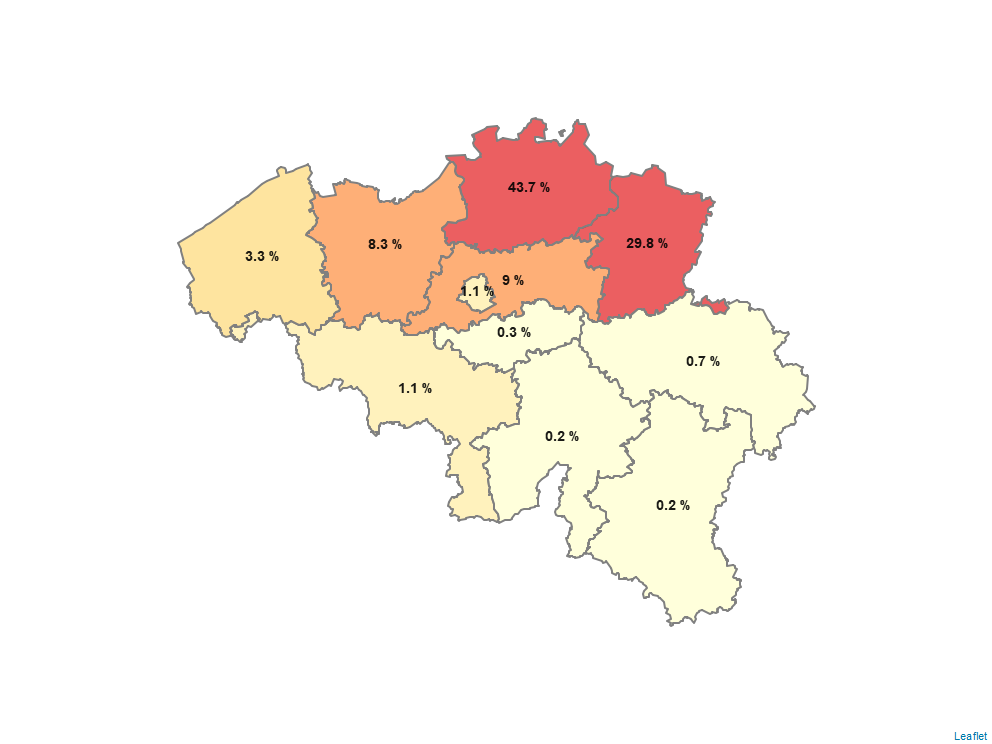
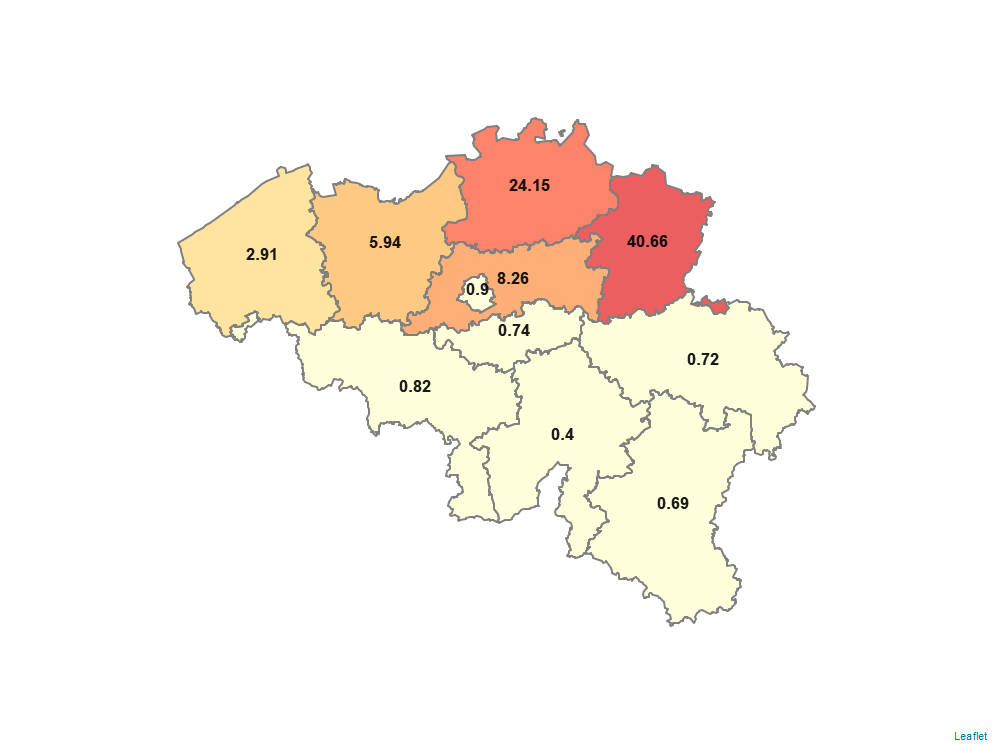
Update results and news 25/10

diff --git a/public/assets/locales/de-be/markdowns/results-0.md b/public/assets/locales/de-be/markdowns/results-0.md
@@ -1,34 +1,30 @@
-`Diese Seite wurde zum letzten Mal angepasst am 14.Okt.2021 13:00.`
+`Diese Seite wurde zum letzten Mal angepasst am 25.Okt.2021 10:00.`
 <br />
-
 On this page you will be able to see the latest results from the data collected by Infectieradar.be.
 <br />
 
+## COVID-19
+The graph below shows the incidence per 1000 participants with COVID-19-like symptoms over time. These are participants who reported at least one of the following symptoms in the past week: fever, cough, shortness of breath, loss of smell or taste. The line represents the 7-day average. 
+* 5.5% of the participants had a previous COVID-19 episode confirmed by test.
+* 10.7 % of the participants believe they had a previous COVID-19 infection.  
+* 90% of the participants is fully vaccinated. 
+
+<img src="assets/images/COVID19_EN.png" width="100%">
+
+## Weekly Symptoms
+In the past week we had 639 completed weekly symptom questionnaires. In 3.6% of the symptom questionnaires it was reported that there were *no symptoms*. The graph below shows the incidence per 1000 participants with flu like symptoms. 
+
+<img src="assets/images/ILI_EN.png" width="100%">  
 
 ## Background Information
-
-On October 14, 2021 we had 1018 participants. 56.8% of the participants are female, and 43.2% male. The majority of the participants (84.7%) reported having no previous Covid-19 episode. 5% of the participants had a positive Covid-19 test in the past. 10.4% of the participants think they had a previous Covid-19 episode.
+On October 25, 2021 we had 1100 participants. 57.4% of the participants are female, and 42.6% male. The map shows the total number of participants per 100.000 inhabitants per province. 
 <br />
-
-### Age distribution
-
-<img src="assets/images/agedistribution.png" width="100%">
-
 
 ### Geographical distribution
 
 <img src="assets/images/ParticipationMap.png" width="100%">
 
+### Age and gender distribution
 
+<img src="assets/images/pyramide_EN.png" width="100%">
 <br />
-
-
-## Weekly Symptoms
-
-On October 14, 2021 we had 11061 completed weekly symptom questionnaires from 962 participants. In 81.1% of the symptom questionnaires it was reported that there were *no symptoms*.
-
-### Reported symptoms
-
-In the figure below we present how often (in percentages) a symptom was reported in questionnaires where at least one symptom was reported.
-
-<img src="assets/images/ReportedSymptoms_EN.png" width="100%">

diff --git a/public/assets/locales/fr-be/markdowns/results-0.md b/public/assets/locales/fr-be/markdowns/results-0.md
@@ -1,34 +1,30 @@
-`Dernière modification de cette page le 14.oct.2021 13:00.`
+`Dernière modification de cette page le 25.oct.2021 10:00.`
 <br />
-
 On this page you will be able to see the latest results from the data collected by Infectieradar.be.
 <br />
 
+## COVID-19
+The graph below shows the incidence per 1000 participants with COVID-19-like symptoms over time. These are participants who reported at least one of the following symptoms in the past week: fever, cough, shortness of breath, loss of smell or taste. The line represents the 7-day average. 
+* 5.5% of the participants had a previous COVID-19 episode confirmed by test.
+* 10.7 % of the participants believe they had a previous COVID-19 infection.  
+* 90% of the participants is fully vaccinated. 
+
+<img src="assets/images/COVID19_EN.png" width="100%">
+
+## Weekly Symptoms
+In the past week we had 639 completed weekly symptom questionnaires. In 3.6% of the symptom questionnaires it was reported that there were *no symptoms*. The graph below shows the incidence per 1000 participants with flu like symptoms. 
+
+<img src="assets/images/ILI_EN.png" width="100%">  
 
 ## Background Information
-
-On October 14, 2021 we had 1018 participants. 56.8% of the participants are female, and 43.2% male. The majority of the participants (84.7%) reported having no previous Covid-19 episode. 5% of the participants had a positive Covid-19 test in the past. 10.4% of the participants think they had a previous Covid-19 episode.
+On October 25, 2021 we had 1100 participants. 57.4% of the participants are female, and 42.6% male. The map shows the total number of participants per 100.000 inhabitants per province. 
 <br />
-
-### Age distribution
-
-<img src="assets/images/agedistribution.png" width="100%">
-
 
 ### Geographical distribution
 
 <img src="assets/images/ParticipationMap.png" width="100%">
 
+### Age and gender distribution
 
+<img src="assets/images/pyramide_EN.png" width="100%">
 <br />
-
-
-## Weekly Symptoms
-
-On October 14, 2021 we had 11061 completed weekly symptom questionnaires from 962 participants. In 81.1% of the symptom questionnaires it was reported that there were *no symptoms*.
-
-### Reported symptoms
-
-In the figure below we present how often (in percentages) a symptom was reported in questionnaires where at least one symptom was reported.
-
-<img src="assets/images/ReportedSymptoms_EN.png" width="100%">

diff --git a/public/assets/locales/en/markdowns/results-0.md b/public/assets/locales/en/markdowns/results-0.md
@@ -1,34 +1,30 @@
-`This page has been last updated at 14.Oct.2021 13:00.`
+`This page has been last updated at 25.Oct.2021 10:00.`
 <br />
-
 On this page you will be able to see the latest results from the data collected by Infectieradar.be.
 <br />
 
+## COVID-19
+The graph below shows the incidence per 1000 participants with COVID-19-like symptoms over time. These are participants who reported at least one of the following symptoms in the past week: fever, cough, shortness of breath, loss of smell or taste. The line represents the 7-day average. 
+* 5.5% of the participants had a previous COVID-19 episode confirmed by test.
+* 10.7 % of the participants believe they had a previous COVID-19 infection.  
+* 90% of the participants is fully vaccinated. 
+
+<img src="assets/images/COVID19_EN.png" width="100%">
+
+## Weekly Symptoms
+In the past week we had 639 completed weekly symptom questionnaires. In 3.6% of the symptom questionnaires it was reported that there were *no symptoms*. The graph below shows the incidence per 1000 participants with flu like symptoms. 
+
+<img src="assets/images/ILI_EN.png" width="100%">  
 
 ## Background Information
-
-On October 14, 2021 we had 1018 participants. 56.8% of the participants are female, and 43.2% male. The majority of the participants (84.7%) reported having no previous Covid-19 episode. 5% of the participants had a positive Covid-19 test in the past. 10.4% of the participants think they had a previous Covid-19 episode.
+On October 25, 2021 we had 1100 participants. 57.4% of the participants are female, and 42.6% male. The map shows the total number of participants per 100.000 inhabitants per province. 
 <br />
-
-### Age distribution
-
-<img src="assets/images/agedistribution.png" width="100%">
-
 
 ### Geographical distribution
 
 <img src="assets/images/ParticipationMap.png" width="100%">
 
+### Age and gender distribution
 
+<img src="assets/images/pyramide_EN.png" width="100%">
 <br />
-
-
-## Weekly Symptoms
-
-On October 14, 2021 we had 11061 completed weekly symptom questionnaires from 962 participants. In 81.1% of the symptom questionnaires it was reported that there were *no symptoms*.
-
-### Reported symptoms
-
-In the figure below we present how often (in percentages) a symptom was reported in questionnaires where at least one symptom was reported.
-
-<img src="assets/images/ReportedSymptoms_EN.png" width="100%">

diff --git a/public/assets/locales/nl-be/markdowns/results-0.md b/public/assets/locales/nl-be/markdowns/results-0.md
@@ -1,33 +1,30 @@
-`Deze pagina is voor het laatst aangepast op 14.okt.2021 13:00.`
+`Deze pagina is voor het laatst aangepast op 25.okt.2021 10:00.`
 <br />
-
 Op deze pagina vindt u de actuele resultaten van Infectieradar.
 <br />
 
+## COVID-19
+De onderstaande grafiek toont de incidentie per 1000 deelnemers met COVID-19-achtige symptomen doorheen de tijd. Dit zijn deelnemers die de afgelopen week minimaal één van de volgende symptomen hebben gemeld: koorts, hoesten, kortademigheid, reuk- of smaakverlies. De lijn geeft het 7-daags gemiddelde weer.
+* 5,5% van de deelnemers hebben reeds positief getest op COVID-19.
+* 10,7% van de deelnemers hebben een sterk vermoeden dat ze COVID-19 hebben gehad.
+* 90% van de deelnemers is volledig gevaccineerd.
+
+<img src="assets/images/COVID19_NL.png" width="100%">
+
+## Wekelijkse Symptomen
+In de afgelopen week hadden we 639 ingevulde symptomen vragenlijsten. In 3.6% van de vragenlijsten werd gerapporteerd dat er *geen symptomen* waren. Onderstaande grafiek toont de incidentie per 1000 deelnemers met griepachtige symtomen. 
+
+<img src="assets/images/ILI_NL.png" width="100%">
 
 ## Achtergrond Informatie
-
-Op 14 oktober 2021 hadden we 1018 deelnemers. 56.8% van de deelnemers is vrouw, en 43.2% is man. Een meerderheid van deelnemers (84.7%) rapporteerden dat ze nog geen Covid-19 hebben gehad. 5% van de deelnemers hebben in het verleden positief getest op Covid-19. 10.4% van de deelnemers hebben een sterk vermoeden dat ze Covid-19 hebben gehad.
+Op 25 oktober 2021 hadden we 1100 deelnemers. 57.4% van de deelnemers is vrouw, en 42.6% is man.
 <br />
-
-### Leeftijdsverdeling
-
-<img src="assets/images/agedistribution.png" width="100%">
-
 
 ### Geografische verdeling
 
 <img src="assets/images/ParticipationMap.png" width="100%">
 
+### Leeftijd- en geslachtsverdeling
 
+<img src="assets/images/pyramide_NL.png" width="100%">
 <br />
-
-
-## Wekelijkse Symptomen
-
-Op 14 oktober 2021 hadden we 11061 ingevulde wekelijkse symptomen vragenlijsten van 962 deelnemers. In 81.1% van de vragenlijsten werd gerapporteerd dat er *geen symptomen* waren.
-
-### Gerapporteerde symptomen
-In de figuur hieronder geven we procentueel aan hoe vaak een bepaald symptoom is gerapporteerd in de vragenlijsten waarbij minstens één symptoom werd doorgegeven.
-
-<img src="assets/images/ReportedSymptoms_NL.png" width="100%">

diff --git a/public/assets/locales/fr-be/markdowns/news-0.md b/public/assets/locales/fr-be/markdowns/news-0.md
@@ -1,3 +1,36 @@
 <br />
- Vous pourrez bientôt en savoir plus sur Infectiradar ici.
-<br />
+
+### Télévision: 
+*'UHasselt lanceert infectieradar om verspreiding virus in kaart te brengen'*
+* TVLimburg, Oyen, T. (29/03/2021) [Link](https://www.tvl.be/nieuws/uhasselt-lanceert-infectieradar-om-verspreiding-virus-in-kaart-te-brengen-115987)
+
+### Articles dans les journaux et magazines:
+*'Coronacijfers schieten weer de hoogte in: door deze gaten in onze verdediging kon het virus nog glippen'*
+* Het Belang Van Limburg, Baumers, K. (25/10/2021) [Link](https://www.hbvl.be/cnt/dmf20211025_93246660?)
+
+*'Maar één op vijf raadpleegt huisarts bij coronasymptomen'*
+* Het Belang Van Limburg, Gijsen, M. (20/10/2021) [Link](https://www.hbvl.be/cnt/dmf20211019_97103130)
+* Nieuwsblad, Gijsen, M. (20/10/2021) [Link](https://www.nieuwsblad.be/cnt/dmf20211020_96966637)
+
+*'Coronavirus - Een op vijf met symptomen raadpleegt huisarts'*
+* Knack, Belga (20/10/2021) [Link](https://www.knack.be/nieuws/belgie/coronavirus-een-op-vijf-met-symptomen-raadpleegt-huisarts/article-belga-1792409.html)
+
+*'Slechts een op vijf mensen met coronasymptomen raadpleegt huisarts'*
+* Het Laatste Nieuws, Belga, (20/10/2021) [Link](https://www.hln.be/binnenland/slechts-een-op-vijf-mensen-met-coronasymptomen-raadpleegt-huisarts~a2878996/)
+
+<img src="assets/images/UHmagazine.png" width="40%">
+
+*'Hoe meer data, hoe beter we virussen kunnen opvolgen'*
+* UHasselt magazine (Juli 2021, p. 9-12) [Link](https://www.uhasselt.be/documents/Tijdschriften/UHmagazine/Magazine-juli_2021_klein.pdf)
+
+*'Infectieziektes op het spoor'*
+* EOS magazine, Goeyers, C. (14/04/2021) [Link](https://www.eoswetenschap.eu/diy/infectieziektes-op-het-spoor)
+
+*'Infectieradar schakelt burgers in om symptomen te melden'*
+* Nieuwsblad, Belga (29/03/2021) [Link](https://www.nieuwsblad.be/cnt/dmf20210329_93584115)
+* Knack, Belga (29/03/2021) [Link](https://www.knack.be/nieuws/belgie/infectieradar-schakelt-burgers-in-om-symptomen-te-melden/article-belga-1717235.html)
+
+*'Team van Niel Hens lanceert Infectieradar om verspreiding virussen in kaart te brengen'*
+* Het Belang Van Limburg, Deferme, S. (29/03/2021) [Link](https://www.hbvl.be/cnt/dmf20210329_93158218)
+<img src="assets/images/NH_HBVL.png" width="60%">
+<br /> 

diff --git a/public/assets/locales/en/markdowns/news-0.md b/public/assets/locales/en/markdowns/news-0.md
@@ -1,3 +1,36 @@
 <br />
-You will soon be able to read more news about Infectieradar here.
+
+### Television: 
+*'UHasselt lanceert infectieradar om verspreiding virus in kaart te brengen'*
+* TVLimburg, Oyen, T. (29/03/2021) [Link](https://www.tvl.be/nieuws/uhasselt-lanceert-infectieradar-om-verspreiding-virus-in-kaart-te-brengen-115987)
+
+### Articles in newspapers and magazines:
+*'Coronacijfers schieten weer de hoogte in: door deze gaten in onze verdediging kon het virus nog glippen'*
+* Het Belang Van Limburg, Baumers, K. (25/10/2021) [Link](https://www.hbvl.be/cnt/dmf20211025_93246660?)
+
+*'Maar één op vijf raadpleegt huisarts bij coronasymptomen'*
+* Het Belang Van Limburg, Gijsen, M. (20/10/2021) [Link](https://www.hbvl.be/cnt/dmf20211019_97103130)
+* Nieuwsblad, Gijsen, M. (20/10/2021) [Link](https://www.nieuwsblad.be/cnt/dmf20211020_96966637)
+
+*'Coronavirus - Een op vijf met symptomen raadpleegt huisarts'*
+* Knack, Belga (20/10/2021) [Link](https://www.knack.be/nieuws/belgie/coronavirus-een-op-vijf-met-symptomen-raadpleegt-huisarts/article-belga-1792409.html)
+
+*'Slechts een op vijf mensen met coronasymptomen raadpleegt huisarts'*
+* Het Laatste Nieuws, Belga, (20/10/2021) [Link](https://www.hln.be/binnenland/slechts-een-op-vijf-mensen-met-coronasymptomen-raadpleegt-huisarts~a2878996/)
+
+<img src="assets/images/UHmagazine.png" width="40%">
+
+*'Hoe meer data, hoe beter we virussen kunnen opvolgen'*
+* UHasselt magazine (Juli 2021, p. 9-12) [Link](https://www.uhasselt.be/documents/Tijdschriften/UHmagazine/Magazine-juli_2021_klein.pdf)
+
+*'Infectieziektes op het spoor'*
+* EOS magazine, Goeyers, C. (14/04/2021) [Link](https://www.eoswetenschap.eu/diy/infectieziektes-op-het-spoor)
+
+*'Infectieradar schakelt burgers in om symptomen te melden'*
+* Nieuwsblad, Belga (29/03/2021) [Link](https://www.nieuwsblad.be/cnt/dmf20210329_93584115)
+* Knack, Belga (29/03/2021) [Link](https://www.knack.be/nieuws/belgie/infectieradar-schakelt-burgers-in-om-symptomen-te-melden/article-belga-1717235.html)
+
+*'Team van Niel Hens lanceert Infectieradar om verspreiding virussen in kaart te brengen'*
+* Het Belang Van Limburg, Deferme, S. (29/03/2021) [Link](https://www.hbvl.be/cnt/dmf20210329_93158218)
+<img src="assets/images/NH_HBVL.png" width="60%">
 <br /> 

diff --git a/public/assets/locales/nl-be/markdowns/news-0.md b/public/assets/locales/nl-be/markdowns/news-0.md
@@ -1,3 +1,36 @@
 <br />
-Binnenkort kan je hier meer nieuws lezen over Infectieradar. 
+
+### Televisie: 
+*'UHasselt lanceert infectieradar om verspreiding virus in kaart te brengen'*
+* TVLimburg, Oyen, T. (29/03/2021) [Link](https://www.tvl.be/nieuws/uhasselt-lanceert-infectieradar-om-verspreiding-virus-in-kaart-te-brengen-115987)
+
+### Artikels in kranten en tijdschriften:
+*'Coronacijfers schieten weer de hoogte in: door deze gaten in onze verdediging kon het virus nog glippen'*
+* Het Belang Van Limburg, Baumers, K. (25/10/2021) [Link](https://www.hbvl.be/cnt/dmf20211025_93246660?)
+
+*'Maar één op vijf raadpleegt huisarts bij coronasymptomen'*
+* Het Belang Van Limburg, Gijsen, M. (20/10/2021) [Link](https://www.hbvl.be/cnt/dmf20211019_97103130)
+* Nieuwsblad, Gijsen, M. (20/10/2021) [Link](https://www.nieuwsblad.be/cnt/dmf20211020_96966637)
+
+*'Coronavirus - Een op vijf met symptomen raadpleegt huisarts'*
+* Knack, Belga (20/10/2021) [Link](https://www.knack.be/nieuws/belgie/coronavirus-een-op-vijf-met-symptomen-raadpleegt-huisarts/article-belga-1792409.html)
+
+*'Slechts een op vijf mensen met coronasymptomen raadpleegt huisarts'*
+* Het Laatste Nieuws, Belga, (20/10/2021) [Link](https://www.hln.be/binnenland/slechts-een-op-vijf-mensen-met-coronasymptomen-raadpleegt-huisarts~a2878996/)
+
+<img src="assets/images/UHmagazine.png" width="40%">
+
+*'Hoe meer data, hoe beter we virussen kunnen opvolgen'*
+* UHasselt magazine (Juli 2021, p. 9-12) [Link](https://www.uhasselt.be/documents/Tijdschriften/UHmagazine/Magazine-juli_2021_klein.pdf)
+
+*'Infectieziektes op het spoor'*
+* EOS magazine, Goeyers, C. (14/04/2021) [Link](https://www.eoswetenschap.eu/diy/infectieziektes-op-het-spoor)
+
+*'Infectieradar schakelt burgers in om symptomen te melden'*
+* Nieuwsblad, Belga (29/03/2021) [Link](https://www.nieuwsblad.be/cnt/dmf20210329_93584115)
+* Knack, Belga (29/03/2021) [Link](https://www.knack.be/nieuws/belgie/infectieradar-schakelt-burgers-in-om-symptomen-te-melden/article-belga-1717235.html)
+
+*'Team van Niel Hens lanceert Infectieradar om verspreiding virussen in kaart te brengen'*
+* Het Belang Van Limburg, Deferme, S. (29/03/2021) [Link](https://www.hbvl.be/cnt/dmf20210329_93158218)
+<img src="assets/images/NH_HBVL.png" width="60%">
 <br /> 

diff --git a/public/assets/locales/de-be/markdowns/news-0.md b/public/assets/locales/de-be/markdowns/news-0.md
@@ -1,3 +1,36 @@
 <br />
-Hier können Sie demnächst mehr zum Infectieradar lesen.
+
+### Fernsehen: 
+*'UHasselt lanceert infectieradar om verspreiding virus in kaart te brengen'*
+* TVLimburg, Oyen, T. (29/03/2021) [Link](https://www.tvl.be/nieuws/uhasselt-lanceert-infectieradar-om-verspreiding-virus-in-kaart-te-brengen-115987)
+
+### Artikel in Zeitungen und Zeitschriften:
+*'Coronacijfers schieten weer de hoogte in: door deze gaten in onze verdediging kon het virus nog glippen'*
+* Het Belang Van Limburg, Baumers, K. (25/10/2021) [Link](https://www.hbvl.be/cnt/dmf20211025_93246660?)
+
+*'Maar één op vijf raadpleegt huisarts bij coronasymptomen'*
+* Het Belang Van Limburg, Gijsen, M. (20/10/2021) [Link](https://www.hbvl.be/cnt/dmf20211019_97103130)
+* Nieuwsblad, Gijsen, M. (20/10/2021) [Link](https://www.nieuwsblad.be/cnt/dmf20211020_96966637)
+
+*'Coronavirus - Een op vijf met symptomen raadpleegt huisarts'*
+* Knack, Belga (20/10/2021) [Link](https://www.knack.be/nieuws/belgie/coronavirus-een-op-vijf-met-symptomen-raadpleegt-huisarts/article-belga-1792409.html)
+
+*'Slechts een op vijf mensen met coronasymptomen raadpleegt huisarts'*
+* Het Laatste Nieuws, Belga, (20/10/2021) [Link](https://www.hln.be/binnenland/slechts-een-op-vijf-mensen-met-coronasymptomen-raadpleegt-huisarts~a2878996/)
+
+<img src="assets/images/UHmagazine.png" width="40%">
+
+*'Hoe meer data, hoe beter we virussen kunnen opvolgen'*
+* UHasselt magazine (Juli 2021, p. 9-12) [Link](https://www.uhasselt.be/documents/Tijdschriften/UHmagazine/Magazine-juli_2021_klein.pdf)
+
+*'Infectieziektes op het spoor'*
+* EOS magazine, Goeyers, C. (14/04/2021) [Link](https://www.eoswetenschap.eu/diy/infectieziektes-op-het-spoor)
+
+*'Infectieradar schakelt burgers in om symptomen te melden'*
+* Nieuwsblad, Belga (29/03/2021) [Link](https://www.nieuwsblad.be/cnt/dmf20210329_93584115)
+* Knack, Belga (29/03/2021) [Link](https://www.knack.be/nieuws/belgie/infectieradar-schakelt-burgers-in-om-symptomen-te-melden/article-belga-1717235.html)
+
+*'Team van Niel Hens lanceert Infectieradar om verspreiding virussen in kaart te brengen'*
+* Het Belang Van Limburg, Deferme, S. (29/03/2021) [Link](https://www.hbvl.be/cnt/dmf20210329_93158218)
+<img src="assets/images/NH_HBVL.png" width="60%">
 <br /> 
